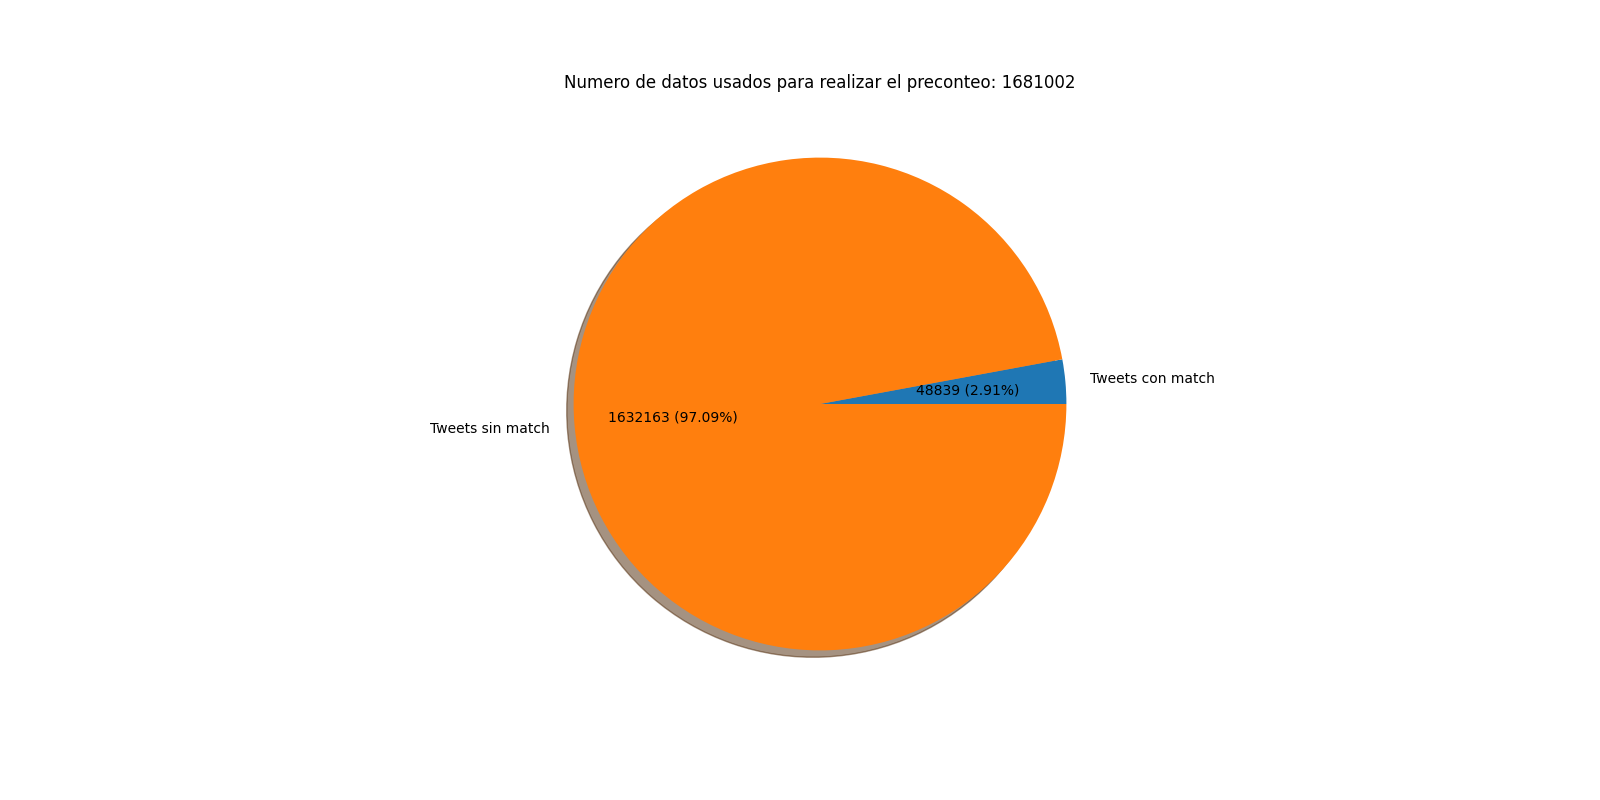
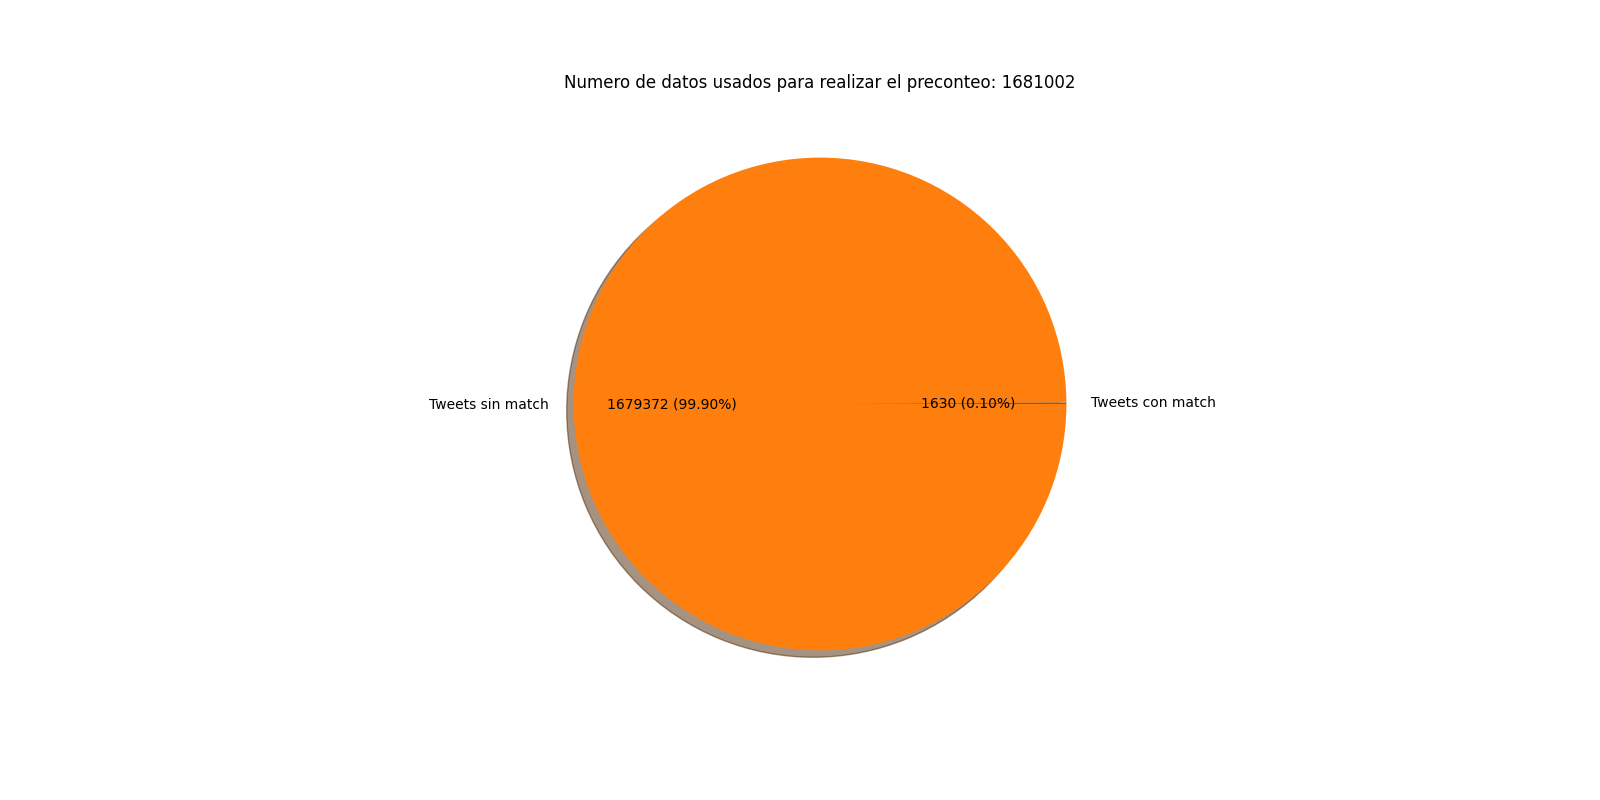
es una pequeña mejora pero vale la pena conservarla

Changed region(s): [[0.5312, 0.4375, 0.75, 0.5312], [0.2812, 0.5, 0.3438, 0.5625], [0.375, 0.5, 0.4688, 0.5312]]

diff --git a/captura_de_datos/filter_data.py b/captura_de_datos/filter_data.py
@@ -16,7 +16,7 @@ df = pd.read_csv(output_path1, encoding='utf8', dtype=str, engine='python')
 df['mourning'] = np.nan
 
 tags_muerte = [
-    'mourning', ' rip ', 'rest in peace', 'glory of god', 'cry for the departure', 'luto', 'descansa en paz',
+    'mourning', ' rip ', ' RIP ', 'rest in peace', 'glory of god', 'cry for the departure', 'luto', 'descansa en paz',
     'gloria de dios', 'lloran por la pertida', 'llorar por la partida', 'god be with you', 'que dios esté contigo',
     'sorry for your absence', 'lamento tu ausencia', 'no te preocupes por las lágrimas que derramas en su nombre',
     'lágrimas de dolor', 'tears of pain', 'rezo porque estés en el reino de dios',
@@ -47,11 +47,14 @@ writer4 = csv.writer(csv_m2_es)
 
 print("Iniciando proceso de filtrado")
 for i, row in df.iterrows():
+
     sys.stdout.write("\rFiltrado completado al " + str(round(((i + 1) / (df.shape[0])) * 100, 2)) + "%")
     sys.stdout.flush()
+
     language = df.at[i, 'lang']
-    text = str(df.at[i, 'text'])
+    text = str(df.at[i, 'text']).lower()
     languages_list = ['en', 'es']
+
     if any(word in text for word in tags_muerte):
         if type(language) is str and language in languages_list:
             if str(language) == 'en':

diff --git a/captura_de_datos/data_analysis.py b/captura_de_datos/data_analysis.py
@@ -9,7 +9,7 @@ usar_muestra = 0
 originales = 'originales'  # <---- originales o arregaldos
 
 tags_muerte = [
-    'mourning', ' rip ', 'rest in peace', 'glory of god', 'cry for the departure', 'luto', 'descansa en paz',
+    'mourning', ' rip ', ' RIP ', 'rest in peace', 'glory of god', 'cry for the departure', 'luto', 'descansa en paz',
     'gloria de dios', 'lloran por la pertida', 'llorar por la partida', 'god be with you', 'que dios esté contigo',
     'sorry for your absence', 'lamento tu ausencia', 'no te preocupes por las lágrimas que derramas en su nombre',
     'lágrimas de dolor', 'tears of pain', 'rezo porque estés en el reino de dios',
@@ -51,7 +51,7 @@ for i, row in df.iterrows():
     sys.stdout.flush()
 
     global_count += 1
-    text = df.at[i, 'text']
+    text = str(df.at[i, 'text']).lower()
     country = df.at[i, 'country']
     date_str = df.at[i, 'created_at']
     language = df.at[i, 'lang']
